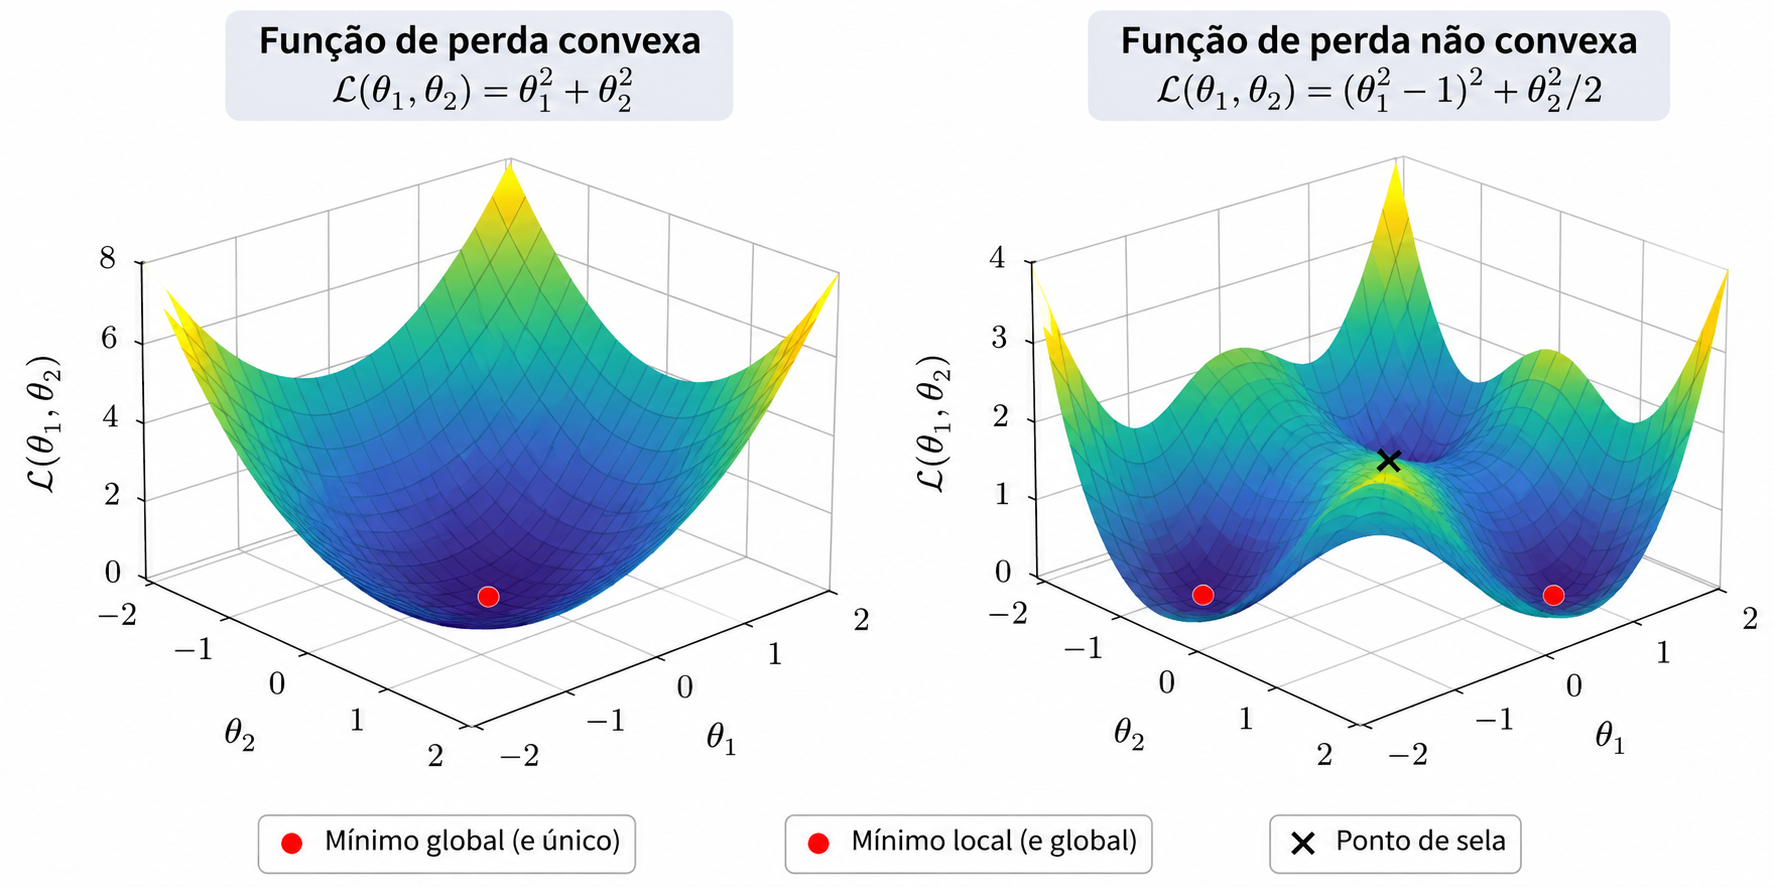
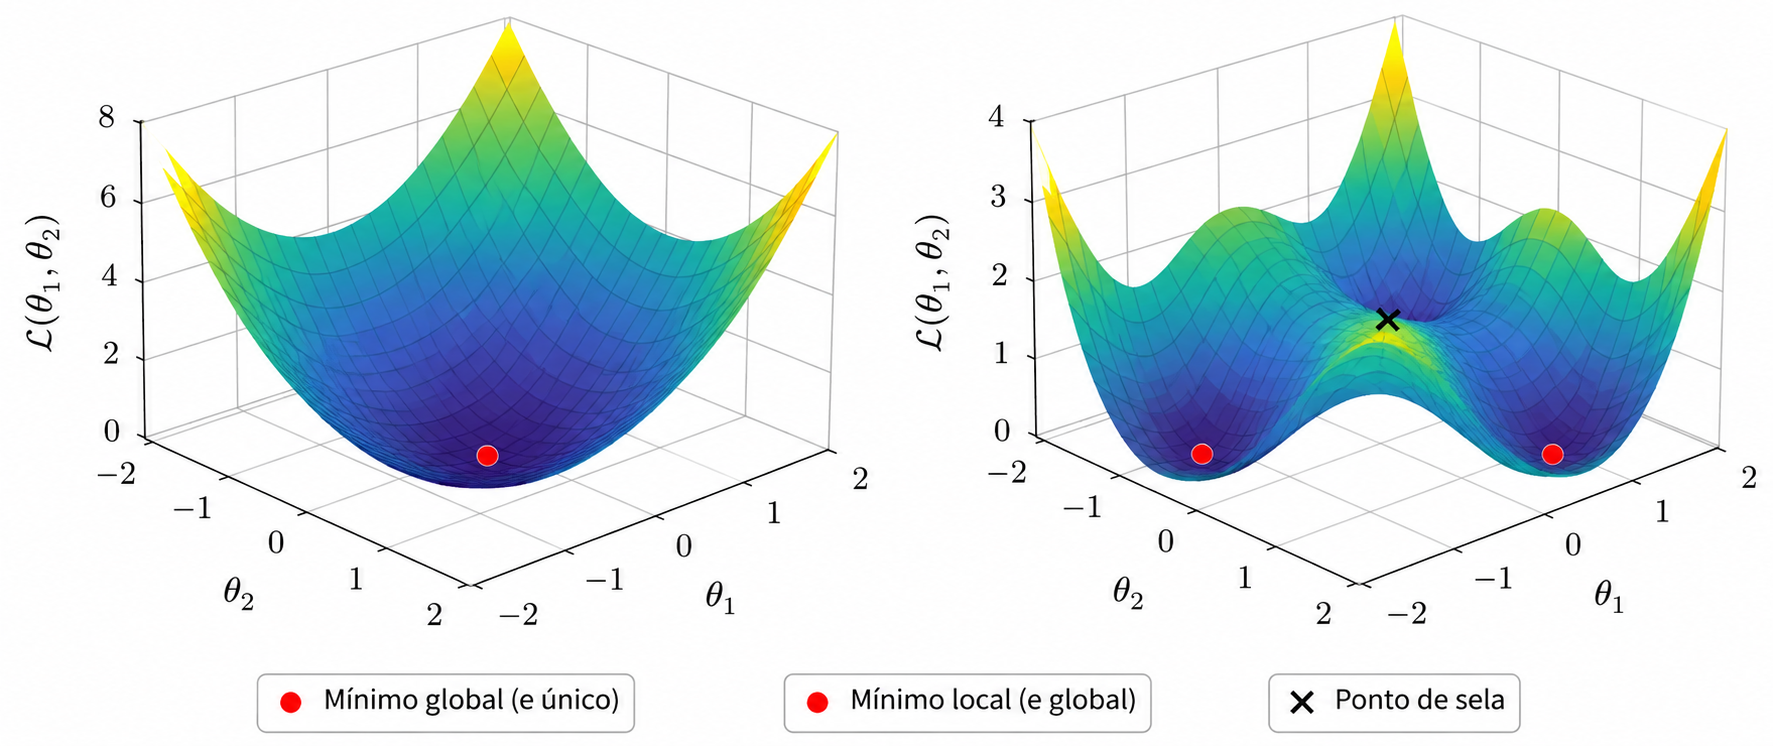
ajuste aula RNA

diff --git a/docs/aulas/semanais/semana_09_redes_neurais.html b/docs/aulas/semanais/semana_09_redes_neurais.html
@@ -540,7 +540,7 @@ P(Y=1\mid\mathbf{x})=\sigma(\beta_0+\boldsymbol\beta^\top\mathbf{x}),\qquad
 </section><section id="risco-empírico-e-regularização" class="slide level2"><h2>Risco empírico e regularização</h2>
 <p><span class="math display">\[
 \widehat\theta=\arg\min_\theta\left\{
-\frac1n\sum_{i=1}^n L\big(y_i,f_\theta(\mathbf x_i)\big)
+\frac1n\sum_{i=1}^n L\big(y_i,g_\theta(\mathbf x_i)\big)
 +\lambda\Omega(\theta)\right\}
 \]</span></p>
 <p>Para penalização <span class="math inline">\(L_2\)</span>:</p>
@@ -571,23 +571,102 @@ P(Y=1\mid\mathbf{x})=\sigma(\beta_0+\boldsymbol\beta^\top\mathbf{x}),\qquad
 <img data-src="../..\images/regressao/perdas_convexa_nao_convexa.png" style="width:100.0%" class="r-stretch"></section><section id="exemplo-derivada-de-uma-unidade-sigmoide" class="slide level2"><h2>Exemplo: derivada de uma unidade sigmoide</h2>
 <p>Considere <span class="math inline">\(\widehat p=\sigma(wx+b)\)</span> e a perda para uma observação:</p>
 <p><span class="math display">\[\ell=-y\log\widehat p-(1-y)\log(1-\widehat p)\]</span></p>
-<p>Usando a regra da cadeia:</p>
+<p>A perda depende de <span class="math inline">\(w\)</span> <strong>indiretamente</strong>, por meio de <span class="math inline">\(z\)</span> e <span class="math inline">\(\hat p\)</span>:</p>
 <p><span class="math display">\[
-\frac{\partial\ell}{\partial w}=(\widehat p-y)x,
+w \longrightarrow z \longrightarrow \hat p
+\longrightarrow \ell
+\]</span></p>
+<p>Pela <strong>regra da cadeia</strong>:</p>
+<p><span class="math display">\[
+\boxed{
+\frac{\partial\ell}{\partial w}
+=
+\frac{\partial\ell}{\partial\hat p}
+\frac{\partial\hat p}{\partial z}
+\frac{\partial z}{\partial w}
+}
+\]</span></p>
+</section><section id="como-o-erro-chega-aos-pesos" class="slide level2"><h2>Como o erro chega aos pesos?</h2>
+<p>Para sigmoide com entropia cruzada binária:</p>
+<p><span class="math display">\[
+\frac{\partial\ell}{\partial w}
+=
+\underbrace{(\hat p-y)}_{\delta}
+\underbrace{x}_{\text{entrada}}, \qquad \frac{\partial\ell}{\partial b} =\hat p-y
+\]</span></p>
+<p><strong>Ideia central:</strong> o gradiente é calculado percorrendo as dependências da saída em direção aos parâmetros.</p>
+</section><section id="como-o-gradiente-chega-à-camada-oculta" class="slide level2"><h2>Como o gradiente chega à camada oculta?</h2>
+<p>Considere uma RNA com uma camada oculta e uma saída:</p>
+<p><span class="math display">\[
+\mathbf a^{(0)}=\mathbf x
+\]</span></p>
+<p><span class="math display">\[
+\mathbf z^{(1)}
+=W^{(1)}\mathbf x+\mathbf b^{(1)},
 \qquad
-\frac{\partial\ell}{\partial b}=\widehat p-y
+\mathbf a^{(1)}=\phi(\mathbf z^{(1)})
 \]</span></p>
-<p><strong>Interpretação:</strong> o erro de predição é propagado para ajustar os parâmetros.</p>
+<p><span class="math display">\[
+z^{(2)}=W^{(2)}\mathbf a^{(1)}+b^{(2)},
+\qquad
+\hat p=\sigma(z^{(2)})
+\]</span></p>
+<p><strong>1. Gradiente na saída:</strong></p>
+<p><span class="math display">\[
+\boxed{\delta^{(2)}=\hat p-y}
+\]</span></p>
+</section><section id="como-o-gradiente-chega-à-camada-oculta-1" class="slide level2"><h2>Como o gradiente chega à camada oculta?</h2>
+<p><strong>2. Retropropagação à camada oculta:</strong></p>
+<p><span class="math display">\[
+\boxed{
+\boldsymbol\delta^{(1)}
+=
+\left[(W^{(2)})^\top\delta^{(2)}\right]
+\odot\phi'(\mathbf z^{(1)})
+}
+\]</span></p>
+<p><strong>3. Gradientes dos pesos:</strong></p>
+<p><span class="math display">\[
+\frac{\partial\ell}{\partial W^{(1)}}
+=
+\boldsymbol\delta^{(1)}\mathbf x^\top,
+\qquad
+\frac{\partial\ell}{\partial W^{(2)}}
+=
+\delta^{(2)}(\mathbf a^{(1)})^\top
+\]</span></p>
 </section><section id="backpropagation-ideia-central" class="slide level2"><h2>Backpropagation: ideia central</h2>
-<p>Para uma camada oculta:</p>
+<p>Para uma rede com <span class="math inline">\(L\)</span> camadas parametrizadas:</p>
+<p><strong>Gradiente na saída:</strong></p>
 <p><span class="math display">\[
-\delta^{(2)}=\frac{\partial\ell}{\partial z^{(2)}},\qquad
-\delta^{(1)}=\big[(W^{(2)})^\top\delta^{(2)}\big]\odot\phi'(z^{(1)})
+\boldsymbol\delta^{(L)}
+=
+\frac{\partial\ell}{\partial\mathbf z^{(L)}}
 \]</span></p>
+<p><strong>Retropropagação para as camadas ocultas:</strong></p>
 <p><span class="math display">\[
-\frac{\partial\ell}{\partial W^{(\ell)}}=\delta^{(\ell)}(h^{(\ell-1)})^\top
+\boxed{
+\boldsymbol\delta^{(\ell)}
+=
+\left[(W^{(\ell+1)})^\top
+\boldsymbol\delta^{(\ell+1)}\right]
+\odot
+(\phi^{(\ell)})'(\mathbf z^{(\ell)})
+}
 \]</span></p>
-<p>O <em>backpropagation</em> calcula gradientes eficientemente; <strong>não é, por si só, o algoritmo de atualização</strong> dos pesos.</p>
+</section><section id="backpropagation-ideia-central-1" class="slide level2"><h2>Backpropagation: ideia central</h2>
+<p><strong>Gradientes dos parâmetros:</strong></p>
+<p><span class="math display">\[
+\frac{\partial\ell}{\partial W^{(\ell)}}
+=
+\boldsymbol\delta^{(\ell)}
+(\mathbf a^{(\ell-1)})^\top,
+\qquad
+\frac{\partial\ell}{\partial\mathbf b^{(\ell)}}
+=
+\boldsymbol\delta^{(\ell)}
+\]</span></p>
+<p><strong>Importante:</strong> backpropagation calcula os gradientes. O otimizador (SGD, Adam etc.) utiliza esses gradientes para atualizar os pesos e vieses.</p>
 </section><section id="passos-do-treinamento" class="slide level2"><h2>Passos do treinamento</h2>
 <ol type="1">
 <li>Inicializar pesos e vieses.</li>
@@ -692,17 +771,8 @@ P(Y=1\mid\mathbf{x})=\sigma(\beta_0+\boldsymbol\beta^\top\mathbf{x}),\qquad
 <td>Selecionar hiperparâmetros</td>
 </tr>
 </tbody>
-</table></section><section id="estratégias-de-controle-e-generalização-1" class="slide level2"><h2>Estratégias de controle e generalização</h2>
-<p><strong>Conexão com a aprendizagem estatística:</strong></p>
-<ul>
-<li>
-<em>Weight decay</em> é relacionado à <strong>regressão ridge</strong>.</li>
-<li>
-<em>Early stopping</em> atua como <strong>regularização implícita</strong>.</li>
-<li>A validação cruzada permite comparar diferentes níveis de complexidade e regularização.</li>
-</ul>
-<p><strong>Importante:</strong> controlar a generalização não significa necessariamente reduzir o número de parâmetros.</p>
-</section><section id="protocolo-de-avaliação-sem-vazamento" class="slide level2"><h2>Protocolo de avaliação sem vazamento</h2>
+</table>
+<!-- ## Estratégias de controle e generalização --><!-- **Conexão com a aprendizagem estatística:** --><!-- - *Weight decay* é relacionado à **regressão ridge**. --><!-- - *Early stopping* atua como **regularização implícita**. --><!-- - A validação cruzada permite comparar diferentes --><!--   níveis de complexidade e regularização. --><!-- **Importante:** controlar a generalização não significa --><!-- necessariamente reduzir o número de parâmetros. --></section><section id="protocolo-de-avaliação-sem-vazamento" class="slide level2"><h2>Protocolo de avaliação sem vazamento</h2>
 <p><strong>Treino / validação / teste</strong></p>
 <ul>
 <li>
